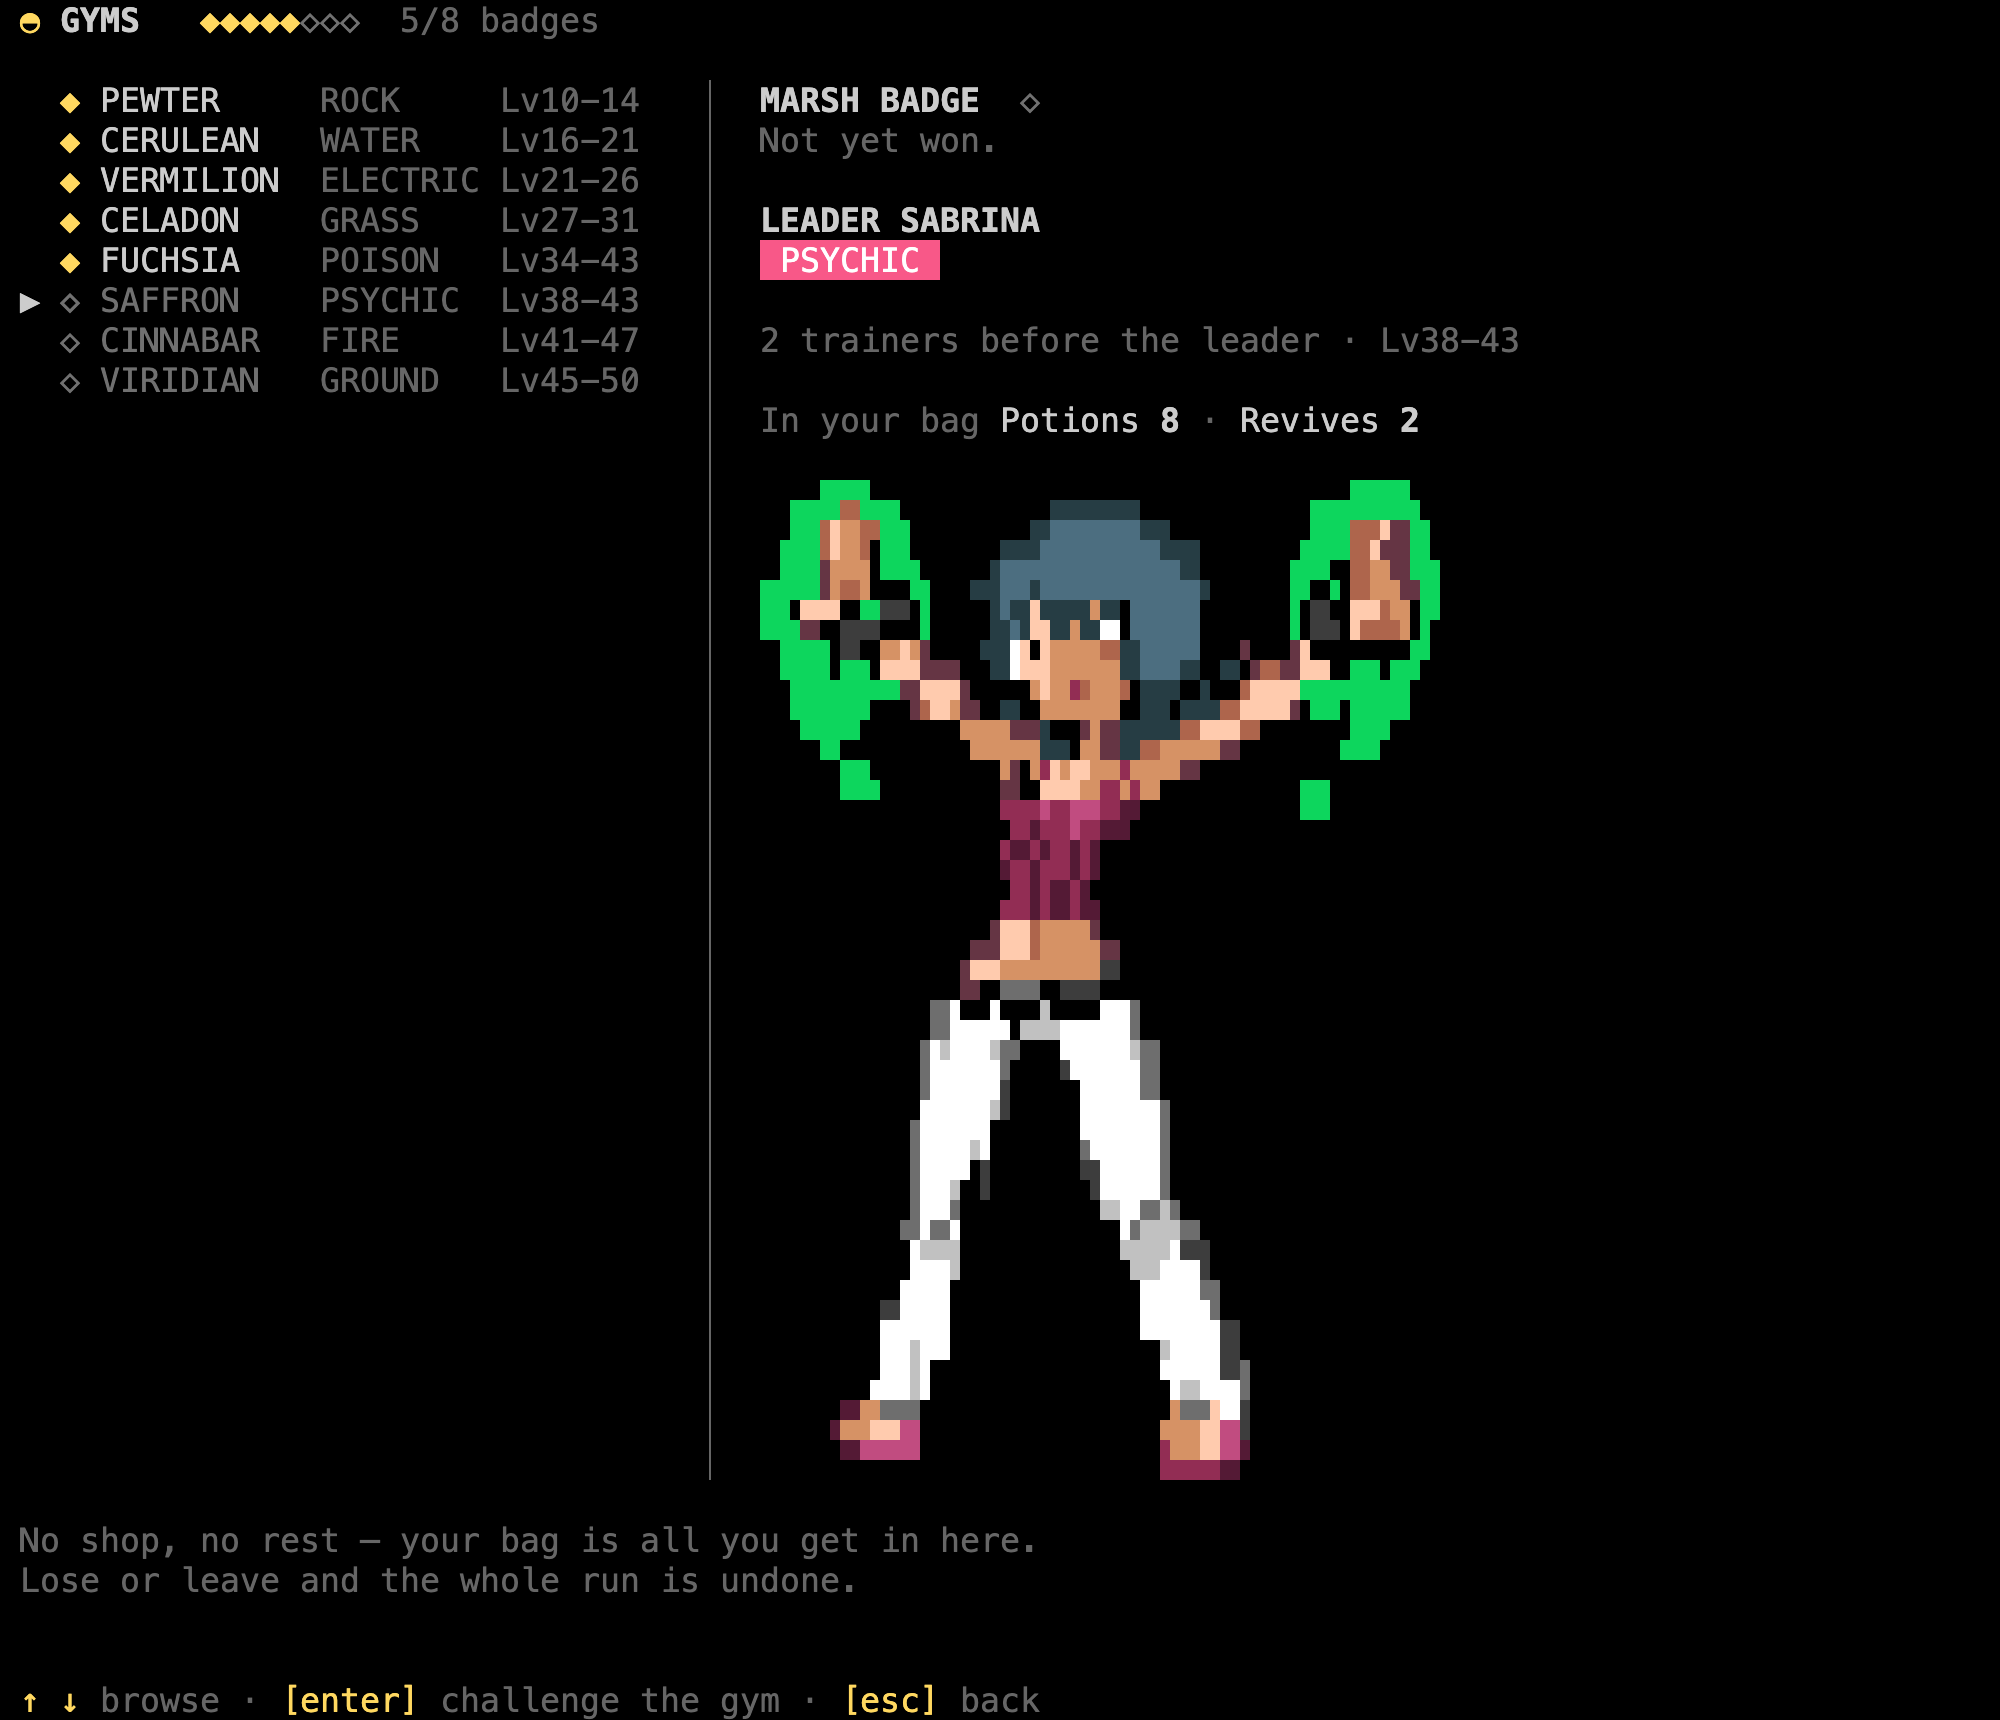
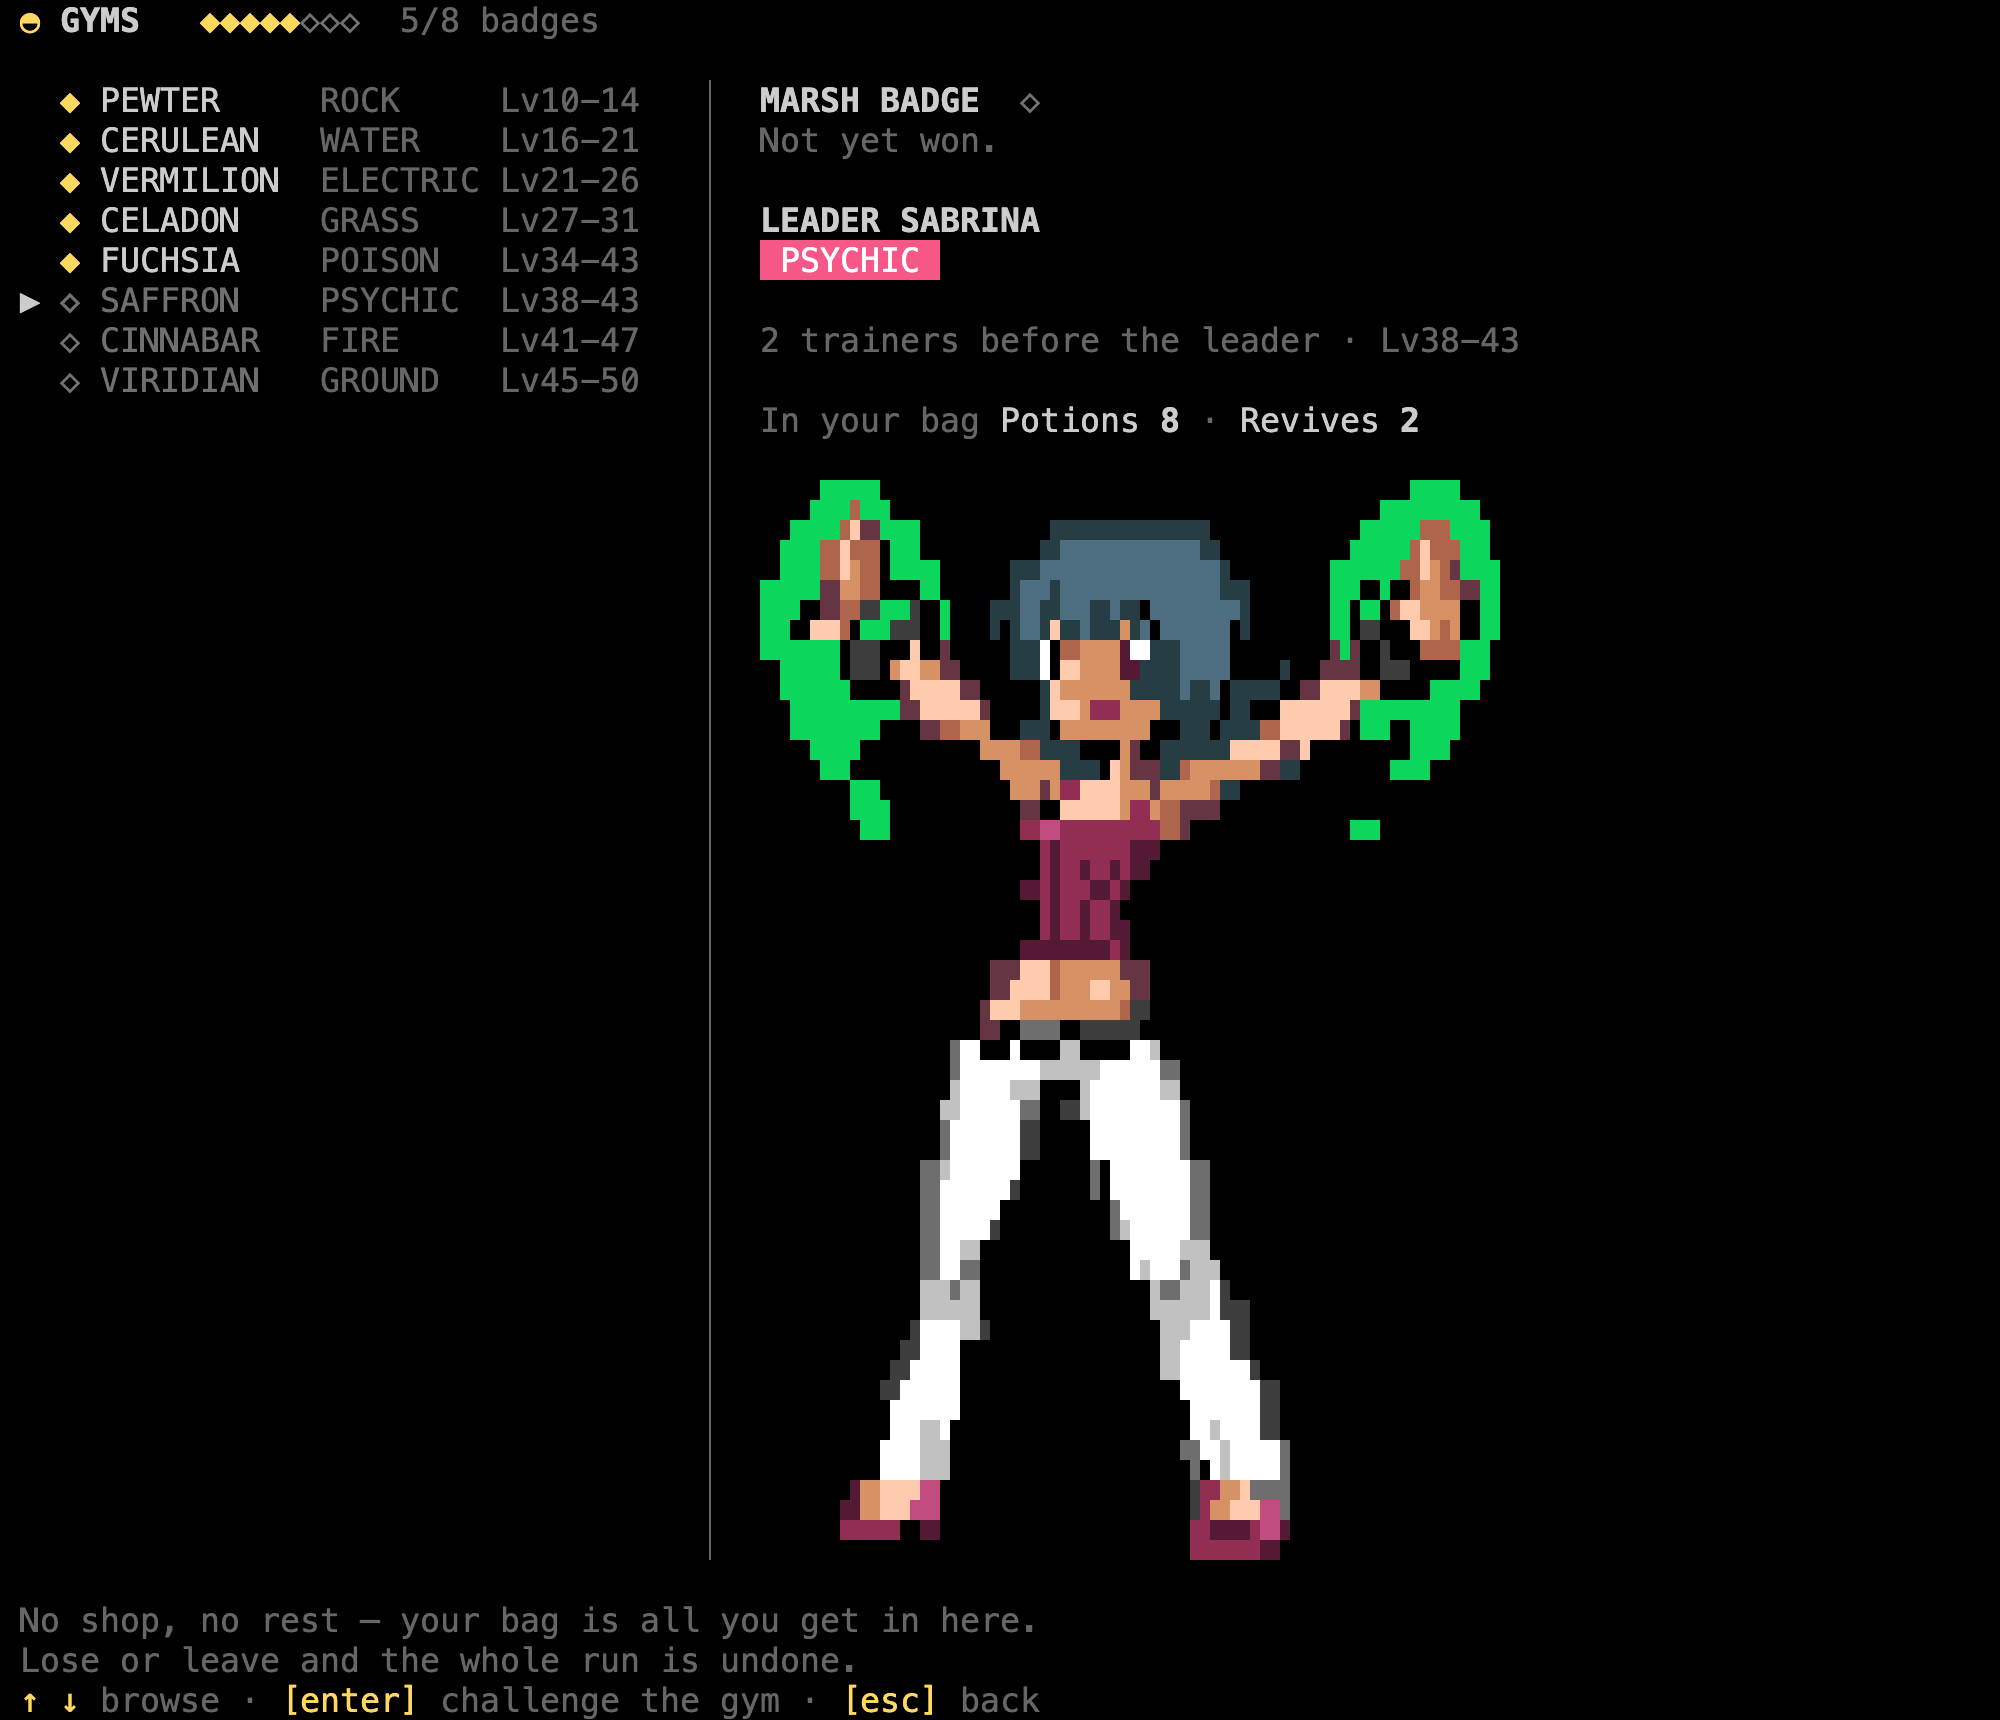
docs: retake the panel screens with the room they now have

Changed region(s): [[0.0, 0.2773, 0.775, 0.986]]

diff --git a/docs/index.html b/docs/index.html
@@ -394,12 +394,12 @@
     </figure>
 
     <figure class="shot">
-      <img src="pokedex.png" width="2000" height="1720" alt="The Pokédex: the list of all 151 down the left with seen and caught markers, 97 of them caught, and Pikachu on the right with its base stats, catch rate and the thunder stone it evolves with" loading="lazy">
+      <img src="pokedex.png" width="2000" height="1640" alt="The Pokédex: the list of all 151 down the left with seen and caught markers, 97 of them caught, and Pikachu on the right with its base stats, catch rate and the thunder stone it evolves with" loading="lazy">
       <figcaption><b>Pokédex</b> — seen and caught are tracked apart, and the stats fill in for the ones you caught.</figcaption>
     </figure>
 
     <figure class="shot">
-      <img src="team.png" width="2000" height="1080" alt="The team screen: six Pokémon listed on the left, and Pidgeot on the right with its health, experience, stats and moves" loading="lazy">
+      <img src="team.png" width="2000" height="1480" alt="The team screen: six Pokémon listed on the left, and Pidgeot on the right with its health, experience, stats and moves" loading="lazy">
       <figcaption><b>Team</b> — details, moves, experience, <code>enter</code> to change your lead, and the box behind it.</figcaption>
     </figure>
   </section>
@@ -411,7 +411,7 @@
     <p><strong>Nothing is written to disk while you are in there.</strong> Beat the leader and the badge is yours. Lose, give up or close the terminal and the whole run is undone — the experience, the money, the potions and the bruises, as if you had never gone in.</p>
 
     <figure class="shot">
-      <img src="gyms.png" width="2000" height="1160" alt="The gym screen: the eight Kanto gyms listed down the left with their type and level range, five badges won, Pewter selected, and Brock on the right under the Boulder Badge" loading="lazy">
+      <img src="gyms.png" width="2000" height="1400" alt="The gym screen: the eight Kanto gyms listed down the left with their type and level range, five badges won, Pewter selected, and Brock on the right under the Boulder Badge" loading="lazy">
       <figcaption><b>The eight</b> — easiest first, with the type they run, the levels their trainers bring and the badge marked won or not. <code>enter</code> walks in.</figcaption>
     </figure>
 
